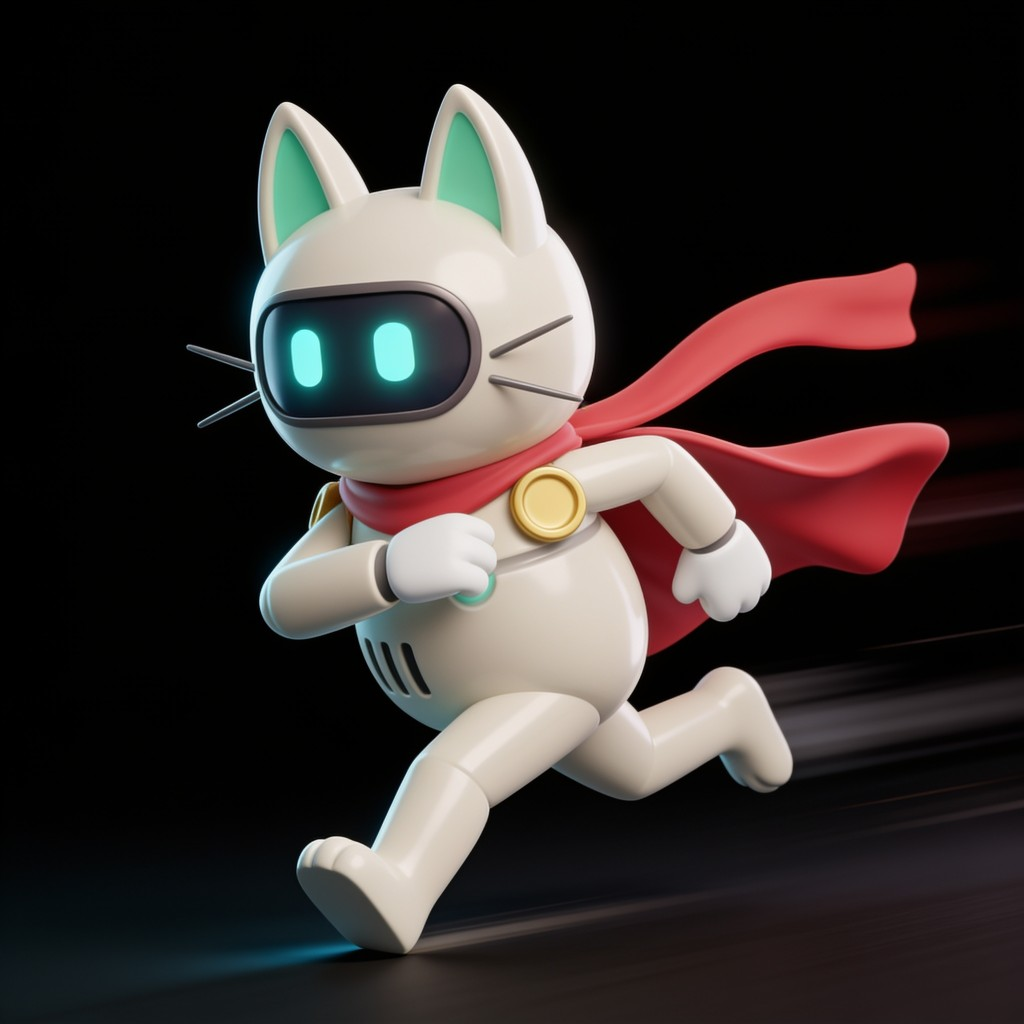
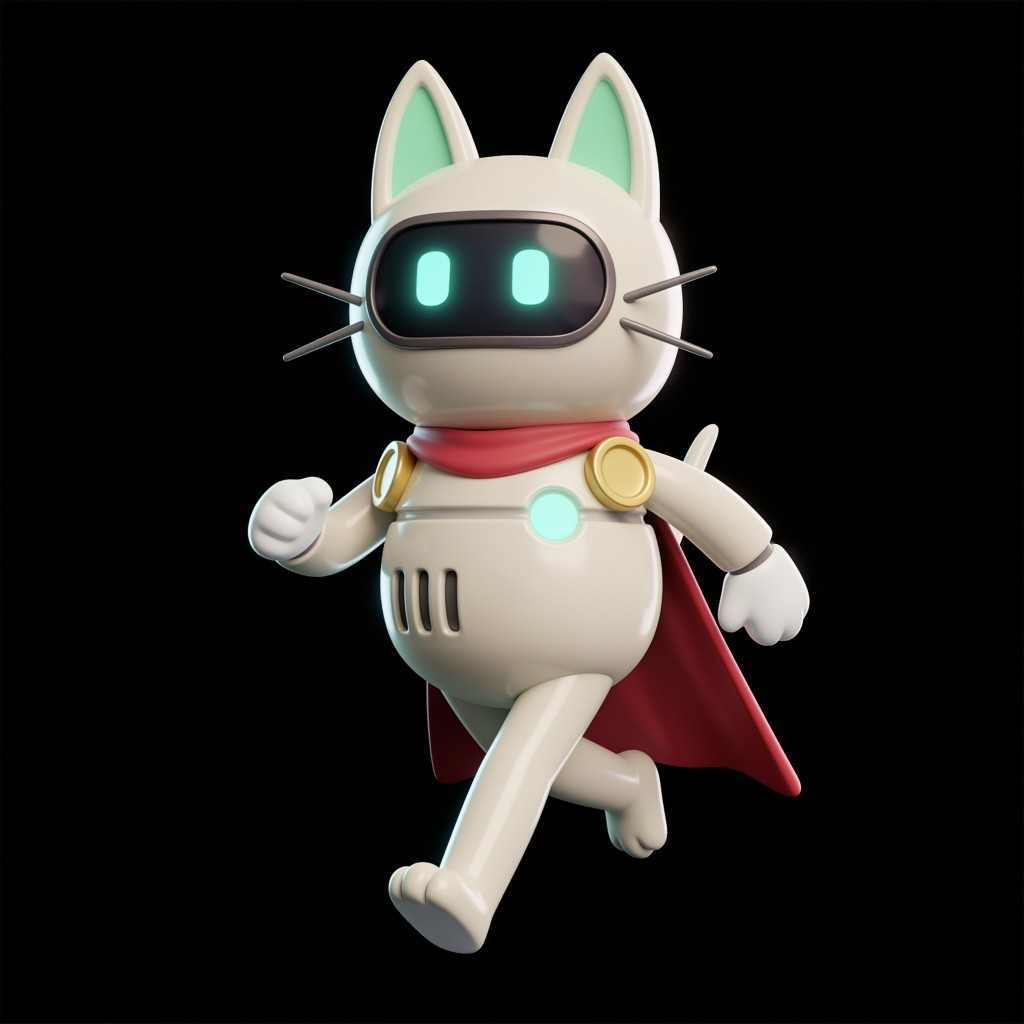
§1e: she stops running like a cat
The owner's rejection was exact — "hero is moving like a cat instead of
running like a cute robot" — and so was the cause: the fired run_a/run_b were
a low feline lunge, body horizontal, paws reaching past her head. Those two
cells have been parked behind a walk-pair substitution ever since. This
replaces them. She hurries upright now: torso vertical with a slight lean,
head high and level, one leg reaching and one pushing off, cape trailing —
a wind-up toy in a hurry, which is what she is.

The pose was never the hard part. COMPOSITION was, twice:

The first pair went out with three cells of her own sheet attached as
reference, to pin camera, scale and key light. That worked — and then the
model also copied the LAYOUT, returning three-panel strips with the figure
cut by the panel borders. Saying "single figure" somewhere in the middle of a
prompt does not survive a reference image that is visibly a strip; the
composition has to be the first thing stated and stated as a negative too.

Restated that way it returned one clean figure for run_a and TWO figures for
run_b. That is worth recovering rather than re-rolling: two figures in one
plate share a camera, a light and a scale exactly, so they split into a
matched pair. But they were nearly the SAME stride, which §3.3 would rightly
call one drawing used twice — so the shipped pair takes one figure from each
fire, with genuinely opposite legs forward.

Both plates are matted rather than black-keyed, for the reason §2g just
[…]

diff --git a/index.html b/index.html
@@ -225,7 +225,7 @@
 })();
 </script>
 
-<script>window.BUILD_ID="msvj8n6l";window.GAME_LOCK="robo";window.MUS_FILES={"ambient_observing_the_star":"assets/music/ambient_observing_the_star.ogg","epic_combat":"assets/music/epic_combat.ogg","mus_alpha":"assets/music/mus_alpha.m4a","mus_alphatame":"assets/music/mus_alphatame.m4a","mus_archives":"assets/music/mus_archives.m4a","mus_boss":"assets/music/mus_boss.m4a","mus_cache":"assets/music/mus_cache.m4a","mus_conduits":"assets/music/mus_conduits.m4a","mus_ending":"assets/music/mus_ending.m4a","mus_eye":"assets/music/mus_eye.m4a","mus_foundry":"assets/music/mus_foundry.m4a","mus_furnace":"assets/music/mus_furnace.m4a","mus_glaciere":"assets/music/mus_glaciere.m4a","mus_intro":"assets/music/mus_intro.m4a","mus_meadows":"assets/music/mus_meadows.m4a","mus_mother":"assets/music/mus_mother.m4a","mus_nest":"assets/music/mus_nest.m4a","mus_nullfang":"assets/music/mus_nullfang.m4a","mus_prism":"assets/music/mus_prism.m4a","mus_talonhost":"assets/music/mus_talonhost.m4a","mus_title":"assets/music/mus_title.m4a"};window.VID_FILES={"end_atlas":"assets/video/end_atlas.mp4","end_brood":"assets/video/end_brood.mp4","end_close":"assets/video/end_close.mp4","end_folk":"assets/video/end_folk.mp4","end_glitch":"assets/video/end_glitch.mp4","end_mother":"assets/video/end_mother.mp4","end_open":"assets/video/end_open.mp4","end_prism":"assets/video/end_prism.mp4","end_zero":"assets/video/end_zero.mp4","intro1":"assets/video/intro1.mp4","intro2":"assets/video/intro2.mp4","intro3":"assets/video/intro3.mp4","intro4":"assets/video/intro4.mp4","intro5":"assets/video/intro5.mp4","intro6":"assets/video/intro6.mp4","intro7":"assets/video/intro7.mp4","intro8":"assets/video/intro8.mp4","purify_atlas":"assets/video/purify_atlas.mp4","purify_brood":"assets/video/purify_brood.mp4","purify_glitch":"assets/video/purify_glitch.mp4","purify_prism":"assets/video/purify_prism.mp4","purify_zero":"assets/video/purify_zero.mp4","sword_gift":"assets/video/sword_gift.mp4"};window.VID_ALT={"end_atlas":"assets/video/end_atlas.webm","end_brood":"assets/video/end_brood.webm","end_close":"assets/video/end_close.webm","end_folk":"assets/video/end_folk.webm","end_glitch":"assets/video/end_glitch.webm","end_mother":"assets/video/end_mother.webm","end_open":"assets/video/end_open.webm","end_prism":"assets/video/end_prism.webm","end_zero":"assets/video/end_zero.webm","intro1":"assets/video/intro1.webm","intro2":"assets/video/intro2.webm","intro3":"assets/video/intro3.webm","intro4":"assets/video/intro4.webm","intro5":"assets/video/intro5.webm","intro6":"assets/video/intro6.webm","intro7":"assets/video/intro7.webm","intro8":"assets/video/intro8.webm","purify_atlas":"assets/video/purify_atlas.webm","purify_brood":"assets/video/purify_brood.webm","purify_glitch":"assets/video/purify_glitch.webm","purify_prism":"assets/video/purify_prism.webm","purify_zero":"assets/video/purify_zero.webm","sword_gift":"assets/video/sword_gift.webm"};window.VID_LIGHT={
+<script>window.BUILD_ID="msvjrd8x";window.GAME_LOCK="robo";window.MUS_FILES={"ambient_observing_the_star":"assets/music/ambient_observing_the_star.ogg","epic_combat":"assets/music/epic_combat.ogg","mus_alpha":"assets/music/mus_alpha.m4a","mus_alphatame":"assets/music/mus_alphatame.m4a","mus_archives":"assets/music/mus_archives.m4a","mus_boss":"assets/music/mus_boss.m4a","mus_cache":"assets/music/mus_cache.m4a","mus_conduits":"assets/music/mus_conduits.m4a","mus_ending":"assets/music/mus_ending.m4a","mus_eye":"assets/music/mus_eye.m4a","mus_foundry":"assets/music/mus_foundry.m4a","mus_furnace":"assets/music/mus_furnace.m4a","mus_glaciere":"assets/music/mus_glaciere.m4a","mus_intro":"assets/music/mus_intro.m4a","mus_meadows":"assets/music/mus_meadows.m4a","mus_mother":"assets/music/mus_mother.m4a","mus_nest":"assets/music/mus_nest.m4a","mus_nullfang":"assets/music/mus_nullfang.m4a","mus_prism":"assets/music/mus_prism.m4a","mus_talonhost":"assets/music/mus_talonhost.m4a","mus_title":"assets/music/mus_title.m4a"};window.VID_FILES={"end_atlas":"assets/video/end_atlas.mp4","end_brood":"assets/video/end_brood.mp4","end_close":"assets/video/end_close.mp4","end_folk":"assets/video/end_folk.mp4","end_glitch":"assets/video/end_glitch.mp4","end_mother":"assets/video/end_mother.mp4","end_open":"assets/video/end_open.mp4","end_prism":"assets/video/end_prism.mp4","end_zero":"assets/video/end_zero.mp4","intro1":"assets/video/intro1.mp4","intro2":"assets/video/intro2.mp4","intro3":"assets/video/intro3.mp4","intro4":"assets/video/intro4.mp4","intro5":"assets/video/intro5.mp4","intro6":"assets/video/intro6.mp4","intro7":"assets/video/intro7.mp4","intro8":"assets/video/intro8.mp4","purify_atlas":"assets/video/purify_atlas.mp4","purify_brood":"assets/video/purify_brood.mp4","purify_glitch":"assets/video/purify_glitch.mp4","purify_prism":"assets/video/purify_prism.mp4","purify_zero":"assets/video/purify_zero.mp4","sword_gift":"assets/video/sword_gift.mp4"};window.VID_ALT={"end_atlas":"assets/video/end_atlas.webm","end_brood":"assets/video/end_brood.webm","end_close":"assets/video/end_close.webm","end_folk":"assets/video/end_folk.webm","end_glitch":"assets/video/end_glitch.webm","end_mother":"assets/video/end_mother.webm","end_open":"assets/video/end_open.webm","end_prism":"assets/video/end_prism.webm","end_zero":"assets/video/end_zero.webm","intro1":"assets/video/intro1.webm","intro2":"assets/video/intro2.webm","intro3":"assets/video/intro3.webm","intro4":"assets/video/intro4.webm","intro5":"assets/video/intro5.webm","intro6":"assets/video/intro6.webm","intro7":"assets/video/intro7.webm","intro8":"assets/video/intro8.webm","purify_atlas":"assets/video/purify_atlas.webm","purify_brood":"assets/video/purify_brood.webm","purify_glitch":"assets/video/purify_glitch.webm","purify_prism":"assets/video/purify_prism.webm","purify_zero":"assets/video/purify_zero.webm","sword_gift":"assets/video/sword_gift.webm"};window.VID_LIGHT={
  "end_atlas": "assets/video/light/end_atlas.mp4",
  "end_brood": "assets/video/light/end_brood.mp4",
  "end_close": "assets/video/light/end_close.mp4",
@@ -12286,8 +12286,8 @@ const HERO_EYE = {
   idle:        { lx: 0.410, ly: 0.445, rx: 0.510, ry: 0.444, ew: 0.044, eh: 0.060 },
   walk_a:      { lx: 0.702, ly: 0.450, rx: 0.759, ry: 0.453, ew: 0.030, eh: 0.050 },
   walk_b:      { lx: 0.609, ly: 0.406, rx: 0.692, ry: 0.409, ew: 0.044, eh: 0.063 },
-  run_a:       { lx: 0.225, ly: 0.407, rx: 0.305, ry: 0.402, ew: 0.037, eh: 0.052 },
-  run_b:       { lx: 0.741, ly: 0.459, rx: 0.829, ry: 0.462, ew: 0.042, eh: 0.072 },
+  run_a:       { lx: 0.410, ly: 0.391, rx: 0.499, ry: 0.390, ew: 0.041, eh: 0.053 },
+  run_b:       { lx: 0.348, ly: 0.308, rx: 0.416, ry: 0.302, ew: 0.031, eh: 0.053 },
   rise:        { lx: 0.460, ly: 0.205, rx: 0.523, ry: 0.203, ew: 0.028, eh: 0.032 },
   apex:        { lx: 0.450, ly: 0.376, rx: 0.548, ry: 0.377, ew: 0.048, eh: 0.057 },
   fall:        { lx: 0.582, ly: 0.610, rx: 0.674, ry: 0.577, ew: 0.058, eh: 0.063 },

diff --git a/odyssey.html b/odyssey.html
@@ -225,7 +225,7 @@
 })();
 </script>
 
-<script>window.BUILD_ID="msvj8n6l";window.GAME_LOCK="hero";window.MUS_FILES={"ambient_observing_the_star":"assets/music/ambient_observing_the_star.ogg","epic_combat":"assets/music/epic_combat.ogg","mus_alpha":"assets/music/mus_alpha.m4a","mus_alphatame":"assets/music/mus_alphatame.m4a","mus_archives":"assets/music/mus_archives.m4a","mus_boss":"assets/music/mus_boss.m4a","mus_cache":"assets/music/mus_cache.m4a","mus_conduits":"assets/music/mus_conduits.m4a","mus_ending":"assets/music/mus_ending.m4a","mus_eye":"assets/music/mus_eye.m4a","mus_foundry":"assets/music/mus_foundry.m4a","mus_furnace":"assets/music/mus_furnace.m4a","mus_glaciere":"assets/music/mus_glaciere.m4a","mus_intro":"assets/music/mus_intro.m4a","mus_meadows":"assets/music/mus_meadows.m4a","mus_mother":"assets/music/mus_mother.m4a","mus_nest":"assets/music/mus_nest.m4a","mus_nullfang":"assets/music/mus_nullfang.m4a","mus_prism":"assets/music/mus_prism.m4a","mus_talonhost":"assets/music/mus_talonhost.m4a","mus_title":"assets/music/mus_title.m4a"};window.VID_FILES={"end_atlas":"assets/video/end_atlas.mp4","end_brood":"assets/video/end_brood.mp4","end_close":"assets/video/end_close.mp4","end_folk":"assets/video/end_folk.mp4","end_glitch":"assets/video/end_glitch.mp4","end_mother":"assets/video/end_mother.mp4","end_open":"assets/video/end_open.mp4","end_prism":"assets/video/end_prism.mp4","end_zero":"assets/video/end_zero.mp4","intro1":"assets/video/intro1.mp4","intro2":"assets/video/intro2.mp4","intro3":"assets/video/intro3.mp4","intro4":"assets/video/intro4.mp4","intro5":"assets/video/intro5.mp4","intro6":"assets/video/intro6.mp4","intro7":"assets/video/intro7.mp4","intro8":"assets/video/intro8.mp4","purify_atlas":"assets/video/purify_atlas.mp4","purify_brood":"assets/video/purify_brood.mp4","purify_glitch":"assets/video/purify_glitch.mp4","purify_prism":"assets/video/purify_prism.mp4","purify_zero":"assets/video/purify_zero.mp4","sword_gift":"assets/video/sword_gift.mp4"};window.VID_ALT={"end_atlas":"assets/video/end_atlas.webm","end_brood":"assets/video/end_brood.webm","end_close":"assets/video/end_close.webm","end_folk":"assets/video/end_folk.webm","end_glitch":"assets/video/end_glitch.webm","end_mother":"assets/video/end_mother.webm","end_open":"assets/video/end_open.webm","end_prism":"assets/video/end_prism.webm","end_zero":"assets/video/end_zero.webm","intro1":"assets/video/intro1.webm","intro2":"assets/video/intro2.webm","intro3":"assets/video/intro3.webm","intro4":"assets/video/intro4.webm","intro5":"assets/video/intro5.webm","intro6":"assets/video/intro6.webm","intro7":"assets/video/intro7.webm","intro8":"assets/video/intro8.webm","purify_atlas":"assets/video/purify_atlas.webm","purify_brood":"assets/video/purify_brood.webm","purify_glitch":"assets/video/purify_glitch.webm","purify_prism":"assets/video/purify_prism.webm","purify_zero":"assets/video/purify_zero.webm","sword_gift":"assets/video/sword_gift.webm"};window.VID_LIGHT={
+<script>window.BUILD_ID="msvjrd8x";window.GAME_LOCK="hero";window.MUS_FILES={"ambient_observing_the_star":"assets/music/ambient_observing_the_star.ogg","epic_combat":"assets/music/epic_combat.ogg","mus_alpha":"assets/music/mus_alpha.m4a","mus_alphatame":"assets/music/mus_alphatame.m4a","mus_archives":"assets/music/mus_archives.m4a","mus_boss":"assets/music/mus_boss.m4a","mus_cache":"assets/music/mus_cache.m4a","mus_conduits":"assets/music/mus_conduits.m4a","mus_ending":"assets/music/mus_ending.m4a","mus_eye":"assets/music/mus_eye.m4a","mus_foundry":"assets/music/mus_foundry.m4a","mus_furnace":"assets/music/mus_furnace.m4a","mus_glaciere":"assets/music/mus_glaciere.m4a","mus_intro":"assets/music/mus_intro.m4a","mus_meadows":"assets/music/mus_meadows.m4a","mus_mother":"assets/music/mus_mother.m4a","mus_nest":"assets/music/mus_nest.m4a","mus_nullfang":"assets/music/mus_nullfang.m4a","mus_prism":"assets/music/mus_prism.m4a","mus_talonhost":"assets/music/mus_talonhost.m4a","mus_title":"assets/music/mus_title.m4a"};window.VID_FILES={"end_atlas":"assets/video/end_atlas.mp4","end_brood":"assets/video/end_brood.mp4","end_close":"assets/video/end_close.mp4","end_folk":"assets/video/end_folk.mp4","end_glitch":"assets/video/end_glitch.mp4","end_mother":"assets/video/end_mother.mp4","end_open":"assets/video/end_open.mp4","end_prism":"assets/video/end_prism.mp4","end_zero":"assets/video/end_zero.mp4","intro1":"assets/video/intro1.mp4","intro2":"assets/video/intro2.mp4","intro3":"assets/video/intro3.mp4","intro4":"assets/video/intro4.mp4","intro5":"assets/video/intro5.mp4","intro6":"assets/video/intro6.mp4","intro7":"assets/video/intro7.mp4","intro8":"assets/video/intro8.mp4","purify_atlas":"assets/video/purify_atlas.mp4","purify_brood":"assets/video/purify_brood.mp4","purify_glitch":"assets/video/purify_glitch.mp4","purify_prism":"assets/video/purify_prism.mp4","purify_zero":"assets/video/purify_zero.mp4","sword_gift":"assets/video/sword_gift.mp4"};window.VID_ALT={"end_atlas":"assets/video/end_atlas.webm","end_brood":"assets/video/end_brood.webm","end_close":"assets/video/end_close.webm","end_folk":"assets/video/end_folk.webm","end_glitch":"assets/video/end_glitch.webm","end_mother":"assets/video/end_mother.webm","end_open":"assets/video/end_open.webm","end_prism":"assets/video/end_prism.webm","end_zero":"assets/video/end_zero.webm","intro1":"assets/video/intro1.webm","intro2":"assets/video/intro2.webm","intro3":"assets/video/intro3.webm","intro4":"assets/video/intro4.webm","intro5":"assets/video/intro5.webm","intro6":"assets/video/intro6.webm","intro7":"assets/video/intro7.webm","intro8":"assets/video/intro8.webm","purify_atlas":"assets/video/purify_atlas.webm","purify_brood":"assets/video/purify_brood.webm","purify_glitch":"assets/video/purify_glitch.webm","purify_prism":"assets/video/purify_prism.webm","purify_zero":"assets/video/purify_zero.webm","sword_gift":"assets/video/sword_gift.webm"};window.VID_LIGHT={
  "end_atlas": "assets/video/light/end_atlas.mp4",
  "end_brood": "assets/video/light/end_brood.mp4",
  "end_close": "assets/video/light/end_close.mp4",
@@ -12286,8 +12286,8 @@ const HERO_EYE = {
   idle:        { lx: 0.410, ly: 0.445, rx: 0.510, ry: 0.444, ew: 0.044, eh: 0.060 },
   walk_a:      { lx: 0.702, ly: 0.450, rx: 0.759, ry: 0.453, ew: 0.030, eh: 0.050 },
   walk_b:      { lx: 0.609, ly: 0.406, rx: 0.692, ry: 0.409, ew: 0.044, eh: 0.063 },
-  run_a:       { lx: 0.225, ly: 0.407, rx: 0.305, ry: 0.402, ew: 0.037, eh: 0.052 },
-  run_b:       { lx: 0.741, ly: 0.459, rx: 0.829, ry: 0.462, ew: 0.042, eh: 0.072 },
+  run_a:       { lx: 0.410, ly: 0.391, rx: 0.499, ry: 0.390, ew: 0.041, eh: 0.053 },
+  run_b:       { lx: 0.348, ly: 0.308, rx: 0.416, ry: 0.302, ew: 0.031, eh: 0.053 },
   rise:        { lx: 0.460, ly: 0.205, rx: 0.523, ry: 0.203, ew: 0.028, eh: 0.032 },
   apex:        { lx: 0.450, ly: 0.376, rx: 0.548, ry: 0.377, ew: 0.048, eh: 0.057 },
   fall:        { lx: 0.582, ly: 0.610, rx: 0.674, ry: 0.577, ew: 0.058, eh: 0.063 },

diff --git a/js/entities.js b/js/entities.js
@@ -491,8 +491,8 @@ const HERO_EYE = {
   idle:        { lx: 0.410, ly: 0.445, rx: 0.510, ry: 0.444, ew: 0.044, eh: 0.060 },
   walk_a:      { lx: 0.702, ly: 0.450, rx: 0.759, ry: 0.453, ew: 0.030, eh: 0.050 },
   walk_b:      { lx: 0.609, ly: 0.406, rx: 0.692, ry: 0.409, ew: 0.044, eh: 0.063 },
-  run_a:       { lx: 0.225, ly: 0.407, rx: 0.305, ry: 0.402, ew: 0.037, eh: 0.052 },
-  run_b:       { lx: 0.741, ly: 0.459, rx: 0.829, ry: 0.462, ew: 0.042, eh: 0.072 },
+  run_a:       { lx: 0.410, ly: 0.391, rx: 0.499, ry: 0.390, ew: 0.041, eh: 0.053 },
+  run_b:       { lx: 0.348, ly: 0.308, rx: 0.416, ry: 0.302, ew: 0.031, eh: 0.053 },
   rise:        { lx: 0.460, ly: 0.205, rx: 0.523, ry: 0.203, ew: 0.028, eh: 0.032 },
   apex:        { lx: 0.450, ly: 0.376, rx: 0.548, ry: 0.377, ew: 0.048, eh: 0.057 },
   fall:        { lx: 0.582, ly: 0.610, rx: 0.674, ry: 0.577, ew: 0.058, eh: 0.063 },

diff --git a/docs/ART_QUEUE.md b/docs/ART_QUEUE.md
@@ -233,12 +233,12 @@ branches, ever. §1 is DONE and merged; the list below is what remains.
   2. §1b-ii regrips ×2 + thrown blade ×1 (thrown = BODY LENGTH — owner ruling)
   3. §1c    back-jet gear ×3             (idle / mid-boost / full burn)
   4. §1d    THE FORGING CINEMATIC ×1     (cartoonish; Ratchet's chest crystal visible)
-  5. §1e    RUN PAIR RE-FIRE ×2          (run_a / run_b — see brief below; owner rejected v1)
+  5. §1e    RUN PAIR RE-FIRE ×2          ✅ FIRED 2026-08-16 — cells in, code revert pending
   6. §2e    sage plates ×6               (stand/coil/lunge/gather/kneel-lock/purified)
   7. §2d    robot bat plates ×5          (hang/shiver/dive/flap-up/flap-down)
   8. §2c    caveMouth + caveExit + pillar ×3, then the cave tile deck
   9. §2f    GATE SHAPES ×6 + CAVE MOUTHS ×5   (owner 2026-08-15 — see brief below)
- 10. §2g    THE TRADER'S BOOTH + DEN ×3       (boothFront / denInterior / ratchetResting)
+ 10. §2g    THE TRADER'S BOOTH + DEN ×3       ✅ FIRED 2026-08-16 — ratchetResting needs its media.js entry
  11. §3m    BOSS MOTION PLATES (task #93)     (walk pair + attack-anticipation per guardian)
  12. §1     unarmed side action set + apex/burst/heal/Song/slump/wallcling
  13. §2     zone terrain briefs (edge_/fore_ per zone — task #76)
@@ -553,7 +553,46 @@ After keying: archive the source, wire as a media.js entry drawn at the
 ROOM_PROPS A1 anchor with `drawWinchHouse` kept as the loading fallback,
 photograph, then node tests/run.cjs boot deadend platform.
 
-### 1e. THE RUN PAIR RE-FIRE ✱ FIRE ON REBIND — the owner rejected v1
+### 1e. THE RUN PAIR RE-FIRE ✅ FIRED AND SHIPPED 2026-08-16 (art session)
+
+**Done.** Jobs e53d354e (run_a) and f997ec67 (run_b). She hurries upright now —
+torso vertical, head level, one leg reaching and one pushing off, cape
+trailing — instead of lunging along the floor like a cat, which is what the
+owner rejected. Both cells are in `assets/characters/hero/states.png` at cells
+3 and 4, sources archived to `assets/source/hero/run_a.jpg` / `run_b.jpg`,
+eye anchors re-measured and updated, `tests/run.cjs hero artbible` green.
+
+**STILL PARKED IN CODE.** `heroState()` in js/entities.js is still substituting
+the walk pair at 13 fps for the run — the two-line revert is the code session's
+and the new cells do not reach the screen until it lands.
+
+Three things this fire taught, all of them about COMPOSITION rather than pose:
+
+1. **A strip reference makes a strip.** The first pair was fired with three
+   cells of her own sheet attached as reference, to pin camera and scale. It
+   pinned those perfectly and then also copied the LAYOUT: both results came
+   back as three-panel strips with the figure cut by the panel borders. The
+   fix is to say the composition out loud and first — "ONE SINGLE FIGURE,
+   alone, centred, entire body inside the frame, not a sheet, not a strip, not
+   split into panels" — before any word about the character.
+2. **Even then it may hand you two.** The second run_b came back as two
+   figures side by side. That is recoverable and worth recovering: they share
+   one camera, one light and one scale, so splitting them yields a genuinely
+   matched pair. `tools/herocell.cjs` and the split are in this commit's
+   scratch work; the two shipped cells are one from each fire.
+3. **The strides must actually differ.** The two figures in a single plate
+   looked like a pair and were nearly the same stride — §3.3 would have called
+   that one drawing twice. The shipped pair is one figure from each fire, with
+   opposite legs forward.
+
+Wiring, for whoever does it: `node tools/herocell.cjs <sheet> <out>
+run_a=<a>,ground run_b=<b>,air` replaces cells in place without rebuilding the
+sheet — which matters, because `herostates.cjs` re-derives the global scale
+from whatever directory it is given and would move the other twenty cells.
+
+---
+
+### 1e (original brief, kept for the record) — the owner rejected v1
 
 The fired `run_a`/`run_b` cells came back as a LOW FELINE LUNGE — body
 horizontal, paws forward like a sprinting cat. The owner's exact words
